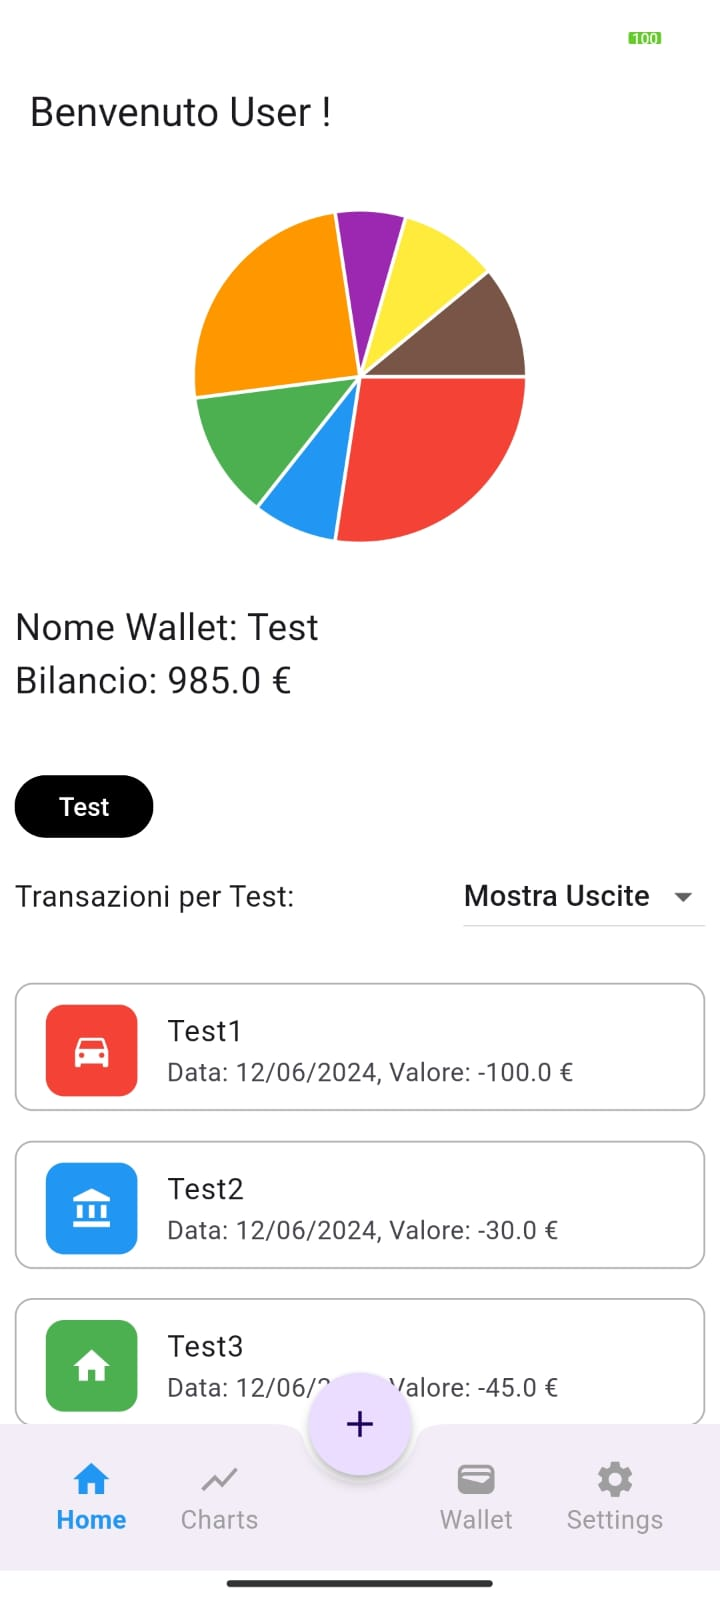
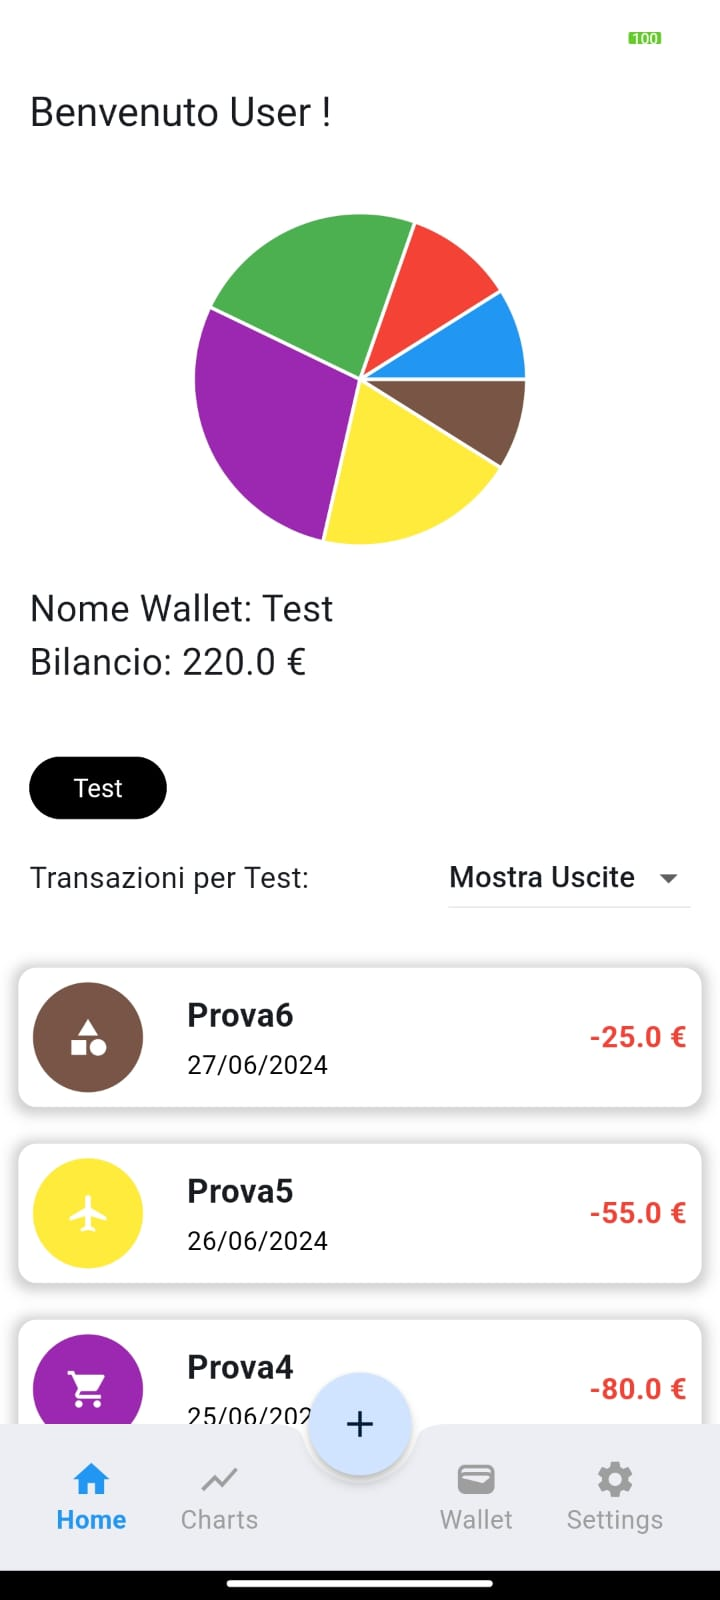
modifiche sfondo tutorial

diff --git a/lib/pages/homeList/HomeList.dart b/lib/pages/homeList/HomeList.dart
@@ -609,7 +609,7 @@ class _HomeListState extends State<HomeList> {
                           _navigateToTransactionDetail(context, transaction);
                         },
                         child: Padding(
-                          padding: const EdgeInsets.all(16.0),
+                          padding: const EdgeInsets.all(10.0),
                           child: Container(
                             decoration: BoxDecoration(
                               borderRadius: BorderRadius.circular(10.0),
@@ -633,7 +633,7 @@ class _HomeListState extends State<HomeList> {
                                 Container(
                                   margin:
                                       EdgeInsets.all(8), // Aggiunto margin qui
-                                  padding: EdgeInsets.all(12),
+                                  padding: EdgeInsets.all(2),
                                   width: 60,
                                   height: 60,
                                   decoration: BoxDecoration(

diff --git a/README.md b/README.md
@@ -4,10 +4,8 @@ A new Flutter project.
 
 ## Home Page
 1. aggiungere bold in button selected wallet
-2. **delte da slide non aggiorna valore**
 ## Charts Page
 1. rivedere grafica del grafico a linea
-
 ## New Transaction
 
 ## Wallet
@@ -15,7 +13,6 @@ A new Flutter project.
 ## Settings
 
 ## Demo
-1. Aggiornare screenshot
 
 ## Other
 1. saveZone per status bar
